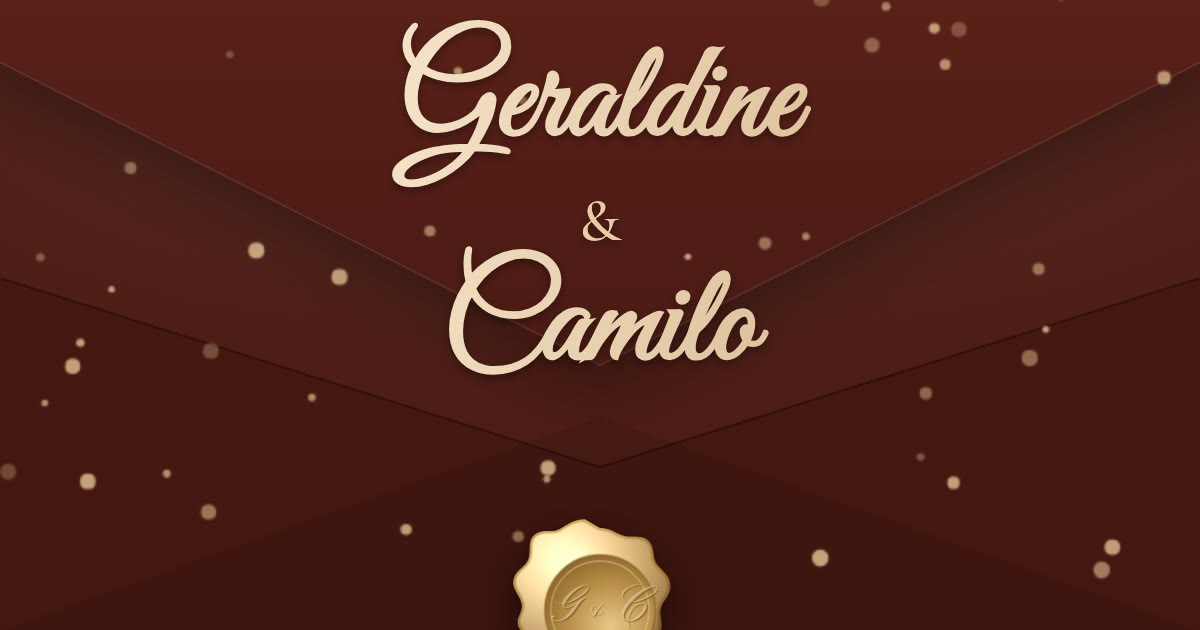
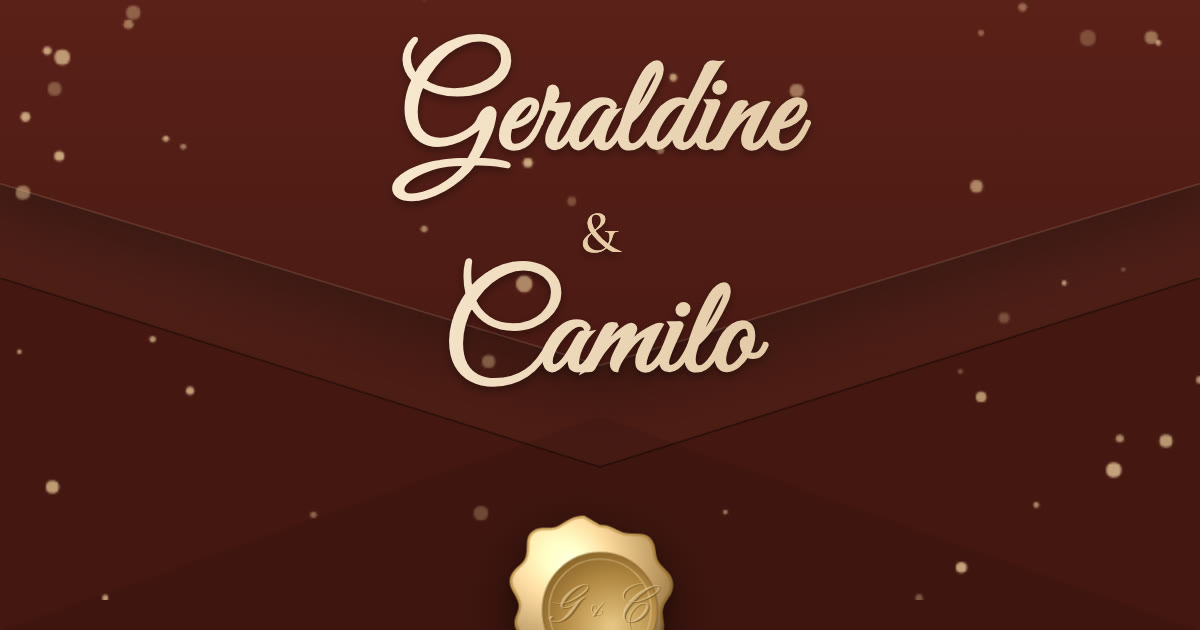
Geraldine & Camilo: solapa como la referencia y nombres que se achican para quedar dentro de ella; títulos manuscritos sin rasgos cortados

diff --git a/public/inv/geraldine-y-camilo.html b/public/inv/geraldine-y-camilo.html
@@ -48,7 +48,7 @@ a{color:inherit}
 .sobre .solapa svg{width:100%;height:100%}
 .sobre .bolsillo{position:absolute;inset:auto 0 0 0;height:56%;z-index:2}
 .sobre .bolsillo svg{width:100%;height:100%}
-.sobre .portada{position:absolute;inset:0;z-index:4;display:flex;flex-direction:column;align-items:center;padding:clamp(70px,13vh,120px) 22px 0;pointer-events:none;
+.sobre .portada{position:absolute;inset:0;z-index:4;display:flex;flex-direction:column;align-items:center;padding:clamp(46px,8vh,90px) 22px 0;pointer-events:none;
   transition:transform 1s cubic-bezier(.6,.05,.3,1),opacity .6s}
 .sobre.abierto .portada{transform:translateY(-12vh);opacity:0}
 .para{font:500 13px/1.3 var(--caps);letter-spacing:.32em;color:var(--oro-claro);opacity:.85;text-align:center;min-height:1.3em}
@@ -84,8 +84,8 @@ section{position:relative;overflow:hidden;padding:clamp(70px,12vh,110px) 24px;te
 .nombres{font-family:var(--firma);color:var(--vino);line-height:.95;margin-top:18px}
 .nombres .n{display:block;width:max-content;margin:0 auto;padding:.06em .28em .12em;font-size:clamp(68px,20vw,116px);white-space:nowrap}
 .nombres .y{display:block;font:500 clamp(38px,10vw,56px)/1 var(--serif);margin:.08em 0}
-.escribe{clip-path:inset(0 100% 0 0);transition:clip-path 1.8s cubic-bezier(.55,.1,.3,1)}
-.visto .escribe,.escribe.visto{clip-path:inset(0 -10% 0 0)}
+.escribe{clip-path:inset(-60% 100% -60% -20%);transition:clip-path 1.8s cubic-bezier(.55,.1,.3,1)}
+.visto .escribe,.escribe.visto{clip-path:inset(-60% -20% -60% -20%)}
 .retraso-1{transition-delay:.5s!important}.retraso-2{transition-delay:1s!important}
 .adorno{width:min(330px,80%);margin:34px auto 0;color:#c7a45d}
 .adorno path,.adorno circle{stroke:currentColor}
@@ -217,8 +217,8 @@ canvas.destellos{position:absolute;inset:0;width:100%;height:100%;pointer-events
   <div class="solapa" aria-hidden="true">
     <svg viewBox="0 0 100 58" preserveAspectRatio="none">
       <defs><linearGradient id="g-solapa" x1="0" y1="0" x2="0" y2="1"><stop offset="0" stop-color="#5a2019"/><stop offset="1" stop-color="#4b1914"/></linearGradient></defs>
-      <path d="M0 0 H100 V8 L50 58 L0 8z" fill="url(#g-solapa)"/>
-      <path d="M0 8 L50 58 L100 8" fill="none" stroke="rgba(255,220,190,.10)" stroke-width=".25"/>
+      <path d="M0 0 H100 V28 L50 58 L0 28z" fill="url(#g-solapa)"/>
+      <path d="M0 28 L50 58 L100 28" fill="none" stroke="rgba(255,220,190,.14)" stroke-width=".25"/>
     </svg>
   </div>
   <canvas class="chispas" id="chispas-sobre"></canvas>
@@ -369,11 +369,31 @@ canvas.destellos{position:absolute;inset:0;width:100%;height:100%;pointer-events
 (function(){
   // ── Nombres que no caben: se achican hasta caber (con sus rasgos) ──
   function ajustar() {
-    document.querySelectorAll(".nombres-sobre .n,.nombres .n,.gran-dia,.gracias").forEach(function (el) {
+    dentroDeSolapa();
+    document.querySelectorAll(".nombres .n,.gran-dia,.gracias").forEach(function (el) {
       el.style.fontSize = ""; var max = el.parentNode.clientWidth - 8, t = parseFloat(getComputedStyle(el).fontSize), w = el.scrollWidth;
       if (el.classList.contains("gran-dia") || el.classList.contains("gracias")) { el.style.whiteSpace = "nowrap"; el.style.display = "inline-block"; w = el.scrollWidth; }
       if (w > max) el.style.fontSize = Math.max(28, Math.floor(t * max / w)) + "px";
     });
+  }
+  function dentroDeSolapa() {
+    var sob = document.getElementById("sobre"), sol = sob.querySelector(".solapa"), sello = document.getElementById("abrir");
+    var ns = [].slice.call(sob.querySelectorAll(".nombres-sobre .n,.nombres-sobre .y"));
+    ns.forEach(function (el) { el.style.fontSize = ""; });
+    for (var vuelta = 0; vuelta < 8; vuelta++) {
+      var r = sol.getBoundingClientRect(), W = sob.clientWidth, alto = r.height, top = r.top - sob.getBoundingClientRect().top;
+      var yLado = top + alto * 28 / 58, yPunta = top + alto, techoSello = sello.getBoundingClientRect().top - sob.getBoundingClientRect().top - 10;
+      var peor = 1;
+      ns.forEach(function (el) {
+        var b = el.getBoundingClientRect(), y = Math.min(b.bottom - b.height * .22 - sob.getBoundingClientRect().top, yPunta);   // la base de la letra (sin la cola de abajo)
+        var medio = y <= yLado ? W / 2 : (W / 2) * (yPunta - y) / (yPunta - yLado);
+        var cabe = Math.max(40, 2 * medio - 34), ancho = el.scrollWidth;
+        var f = Math.min(1, cabe / ancho);
+        if (b.bottom - sob.getBoundingClientRect().top > techoSello) f = Math.min(f, .93);
+        if (f < .995) { el.style.fontSize = (parseFloat(getComputedStyle(el).fontSize) * f).toFixed(1) + "px"; peor = Math.min(peor, f); }
+      });
+      if (peor >= .995) break;
+    }
   }
   (document.fonts && document.fonts.ready ? document.fonts.ready : Promise.resolve()).then(ajustar); addEventListener("resize", ajustar);
 
